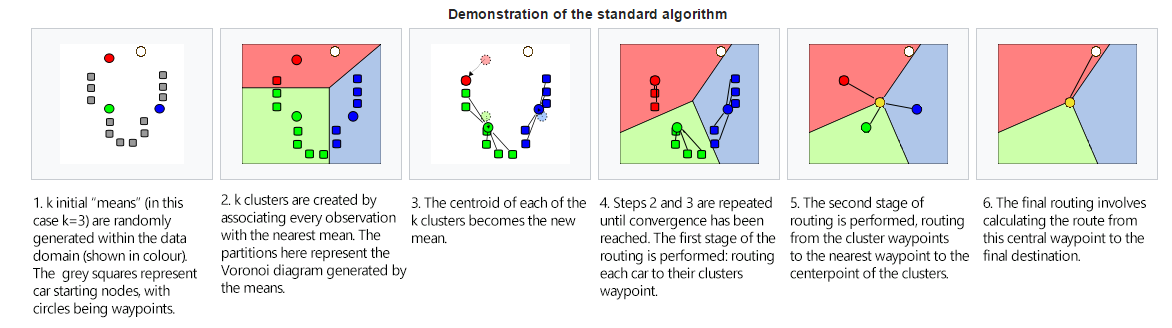
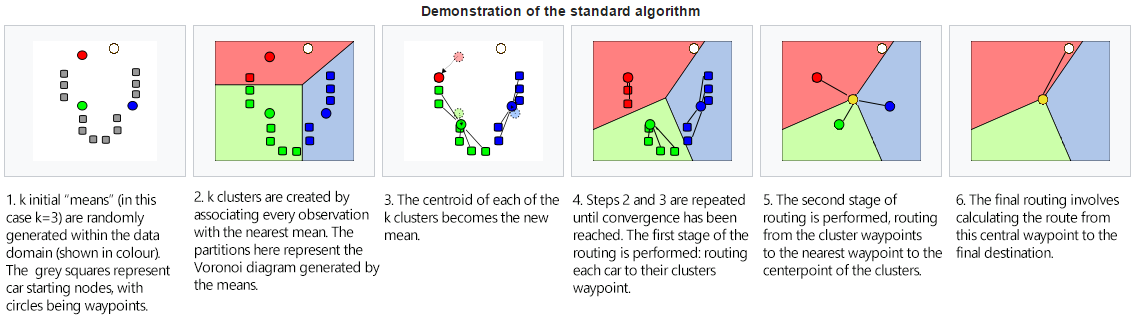
Update on Overleaf.

diff --git a/main.tex b/main.tex
@@ -30,17 +30,12 @@ We have created an attractive and modern solution for digital technology in a ca
 
 \section{Overall system design}\label{sec:system-design}
 \subsection{General}
-Our system consists of many components, these are the centre console, the dashboard, rear back door screens, and a navigation screen. And of course the phone application which will be installed on user mobile devices.
+Our system consists of many components, these are the centre console, the instrument cluster, rear back door screens, and a navigation screen. There is also of course the phone application which will be installed on user mobile devices.
 
 The centre console will be 10" screen located in the front of the car on the dash between the front two seats of the car. This centre console is the central computing unit for the car and has an android operating system. This will have a dual system architecture. The reason for this is because both systems will be flashed with the same image before a software update. This will allow one of the systems to be written with the new system image and have the previous image as bootable backup in case the new system is corrupted.
 
-The dashboard 
-\begin{itemize}
-  \item Operating system
-  \item How the system updates --- dual system architecture
-  \item separate auxiliary system
+The instrument cluster, rear back door screens and navigation screen are connected to the centre console via a network of serial cables. Data is sent between these devices. It consists of data for the console to process and what to display on the devices screens.
 
-\end{itemize}
 \subsection{Algorithms}\label{ssec:algorithms}
 \begin{itemize}
   \item Bidirectional A* Algorithm
@@ -112,7 +107,7 @@ The car and mobile app communicate with the cloud mainly to synchronise informat
 
 Since the car and the mobile app can both change user profile settings, there will be continuous syncs when user settings or preferences are changed. This is so the user can change their settings away from their car with their phone, and have them set up automatically the next time they enter their car.
 
-The software within our car has standard API requests that will always have a response from our cloud, we decided that the cloud would have a general API service, which would provide a link to the external APIs that we use. This is so we can provide the best API for a given location, and there is no unnecessary traffic going through our cloud. Also if external APIs are unavailable unexpectedly, we can always just update the cloud to provide a new link to a different external API\@. These services are mentioned in more detail in Section\ref{sssec:devices-APIs}.
+The software within our car has standard API requests that will always have a response from our cloud, we decided that the cloud would have a general API service, which would provide a link to the external APIs that we use. This is so we can provide the best API for a given location, and there is no unnecessary traffic going through our cloud. Also if external APIs are unavailable unexpectedly, we can always just update the cloud to provide a new link to a different external API\@. These services are mentioned in more detail in Section~\ref{sssec:devices-APIs}~\nameref{sssec:devices-APIs}.
 
 During navigation in convoys, the cars location is sent to the cloud and the associated group member's locations are pulled down from the cloud. This is so the location of other group members can be regularly updated on the navigation display. Other information such as group messages or navigation reroutes are also communicated between group members and the cloud.
 
@@ -120,6 +115,7 @@ All the system updates for the car's software will be downloaded through the clo
 
 The cloud will always be listening for real time event data. This is the kind of events that would be happening live, such as if someone is breaking into your car or for some reason the car alarm has just gone off. Once in the cloud this information would be passed straight to the car owners phone via the app to alert them.
 
+%% NEED TO MENTION HOW PHONE TELLS CAR 
 \subsubsection{Communication between car and phone}\label{sssec:car-phone}
 Communications between the car and the phone consist of initial connection, instructions and data transfer. Establishing a connection is done by pairing the phone to the car by means of NFC, this will authenticate the phone with the car for communications over Bluetooth and Wi-Fi. Authentication can also be achieved by typical manual methods such as typing in a password. There will also be the standard Bluetooth communication between the phone and the car such as sharing contacts and taking calls.
 
@@ -204,12 +200,14 @@ Each of the rear door cards will be fitted with a 5 inch touch screen device tha
 % User Interfaces of the above devices
 An effort was made to follow current styling standards used in industry to give the user a familiar experience, therefore flat designs were used where possible. Also characterising our design are large icons and avoidance of large swathes of text.
 
-\subsubsection{Dashboard cluster screen}\label{sssec:cluster-screen}
+\subsubsection{Instrument cluster screen}\label{sssec:cluster-screen}
 A screen will be replacing the usual instrument cluster behind the steering wheel. This will display information relative to speed, engine revolutions, fuel levels as it has been doing for the past decades but with the difference of being fully customisable in layout, content and colour. These features will result in improved user experience for individuals with poor vision and colour blindness since font sizes and colour schemes can be altered easily in the settings. More generally, as suggested by our questionnaire research, the majority of users will enjoy having the ability of selecting what they will see behind the steering wheel themselves. The LCD panel in question will not be a touch screen since access would be restricted by the wheel and the customisation will be managed on the centre console screen instead.
 
 \subsubsection{Centre console}\label{sssec:centre-console-aestethics}
-The design on this interface is simple and intuitive, its main menu is made up of large square buttons that are labelled with text of adjustable size. Since this is intended to be the main point of contact between the user and the cars' infotainment system, different types of information are displayed on it ranging from navigation menus to engine management information. While opening new activities on similar devices is usually simple, switching between them isn't always as intuitive and that is why our interface has a virtual button in the top left corner labelled with the name of the previous activity so that the user can eas
+The design on this interface is simple and intuitive, its main menu is made up of large square buttons that are labelled with text of adjustable size. Since this is intended to be the main point of contact between the user and the cars' infotainment system, different types of information are displayed on it ranging from navigation menus to engine management information. While opening new activities on similar devices is usually simple, switching between them isn't always as intuitive and that is why our interface has a virtual button in the top left corner labelled with the name of the previous activity so that the user can easily switch to the previous one. The backgrounds are static to prevent causing unnecessary distractions, however the colour scheme is fully customisable by the user and is carried through to all of the interfaces in the car. 
+
 \subsubsection{App}\label{sssec:app-aestethics}
+The design choices for our mobile app are detailed in section \ref{ssec:app-design}[\nameref{ssec:app-design}].
 \subsubsection{Rear side door}\label{sssec:rear-door-device-aestethics}
 
 %%%%%%%%%%%%%%
@@ -241,7 +239,7 @@ An aid we found very useful was personas, a list of made-up personalities with r
 
 Some of the ideas that came from our brainstorm are: Convoy tracking using K-Means clustering, public transport integration (including park and ride suggestions), route scheduling via either mobile app or in-car interfaces.
 
-\subsection{Tech background --- Lewis}\label{ssec:nav-tech}
+\subsection{Tech background}\label{ssec:nav-tech}
 % Didn't realise how big this section might be, since there is a lot of technical detail in the slides for nav
 \subsubsection{Routing algorithm}\label{sssec:nav-tech-routing}
 The routing algorithm we use is bidirectional A* search, performing a typical A* search from the start node to the destination, and the destination to the start node, in parallel. The heuristic used for this search will incorporate:
@@ -249,6 +247,9 @@ route requirements;
 % What are route requirements?
 learnt user habits \& preferences, applying lower weight to road types preferred by the driver such as if they frequently divert through smaller roads, and applying a higher weight to road types that tend to be avoided by the driver;
 roadwork and traffic information, gained from the APIs, which will apply a higher weight to roads based on their traffic levels.
+%
+% More details on the heuristic
+%
 
 In order to ensure the route continues being efficient, the system polls the APIs every five minutes for updates to traffic conditions and roadworks. After this data has updated the graph, the search is re-run, with the start node being ahead of the current position in order to account for the latency in running the search. The search also re-runs when the driver leaves the current route, to make sure they are still travelling efficiently.
 \subsubsection{Machine learning}\label{sssec:nav-tech-machinelearning}
@@ -260,7 +261,7 @@ One of the problems we encountered while designing the convoy feature was how to
 
 The first step is to create the clusters (step 2 of figure~\ref{nav-kmeans}), associating each member of the convoy to their nearest mean. The second step moves each mean to the centroid of their corresponding cluster. When convergence is reached, the means are moved to the closest suitable waypoint on the underlying map, and each cluster of convoy members is routed to this waypoint in their cluster. When the entire group is starting within the same city, assuming the destination lies outside the city, this should be sufficient; however, as the convoy gets more spread, this algorithm becomes less efficient, since members may be travelling very far individually before they reach their cluster waypoint. The solution here is to iterate the algorithm multiple times, with the start nodes of each iteration being the cluster waypoints generated by the previous iteration, reducing $k$.
 
-There are some further issues with this algorithm that need to be addressed. Firstly, a good value for $k$ should be chosen. This value represents how many clusters are created by the algorithm, and therefore the average number of people (or groups, if this is a later iteration) to be grouped together by a given iteration can also be determined from $k$. Therefore, $k$ should be chosen based on how many people should be grouped up during one iteration; the standard default will aim to group together 3 or 4
+There are some further issues with this algorithm that need to be addressed. Firstly, a good value for $k$ should be chosen. This value represents how many clusters are created by the algorithm, and therefore the average number of people (or groups, if this is a later iteration) to be grouped together by a given iteration can also be determined from $k$. Therefore, $k$ should be chosen based on how many people should be grouped up during one iteration; the standard default will aim to group together 3
 %
 % Requires a choice and justification
 %
@@ -270,7 +271,7 @@ The second issue arises when this algorithm would introduce a large inconvenienc
 
 \begin{figure}[H]
   \centering
-  \includegraphics[scale=0.5]{kmeanscluster}
+  \includegraphics[scale=0.55]{kmeanscluster}
   \caption{Demonstration of K-means convoy clustering.}\label{nav-kmeans}
 \end{figure}
 
@@ -318,15 +319,17 @@ Figure~\ref{qoc-input} asks how the driver should be able to input destinations 
 
 Our final design features the ability to use all three of these input methods, allowing users to control the destination using the voice assistant 
 %
-% Have we mentioned the existence of this?
+% We need to mention the existence of this elsewhere
 %
-in the car; a touchscreen keyboard which is displayed on the centre console; or via the phone app, which is explained further in 
+in the car; a touchscreen keyboard which is displayed on the centre console; or sent to the car via the phone app, which is explained further in section~\ref{sssec:car-cloud}~\nameref{sssec:car-cloud}.
 
 \begin{figure}[H]
   \centering
   \includegraphics[scale=0.5]{qoc-nav-map}
   \caption{QOC discussing how to display the map}\label{qoc-map}
 \end{figure}
+
+Figure~\ref{qoc-map} asks how the map can be displayed on the navigation screen. 
 
 \begin{figure}[H]
   \centering
@@ -395,7 +398,7 @@ We didn't rule out any ideas at this stage since even the most ridiculous ideas 
 
 Once we couldn't come up with any more ideas for our initial brainstorm, we grouped each idea by features in a separate ``refined ideas'' document one by one after first discussing whether the idea was feasible and worth expanding upon. Once we had our completed refined and grouped ideas document, we were ready to start designing and researching technical details.
 
-A section of our initial ideas brainstorming document can be seen in figure~\ref{initial-ideas} and a secion of our refined ideas can be seen in figure~\ref{refined-ideas}.
+A section of our initial ideas brainstorming document can be seen in figure~\ref{initial-ideas} and a section of our refined ideas can be seen in figure~\ref{refined-ideas}.
 
 \begin{figure}[H]
   \centering
